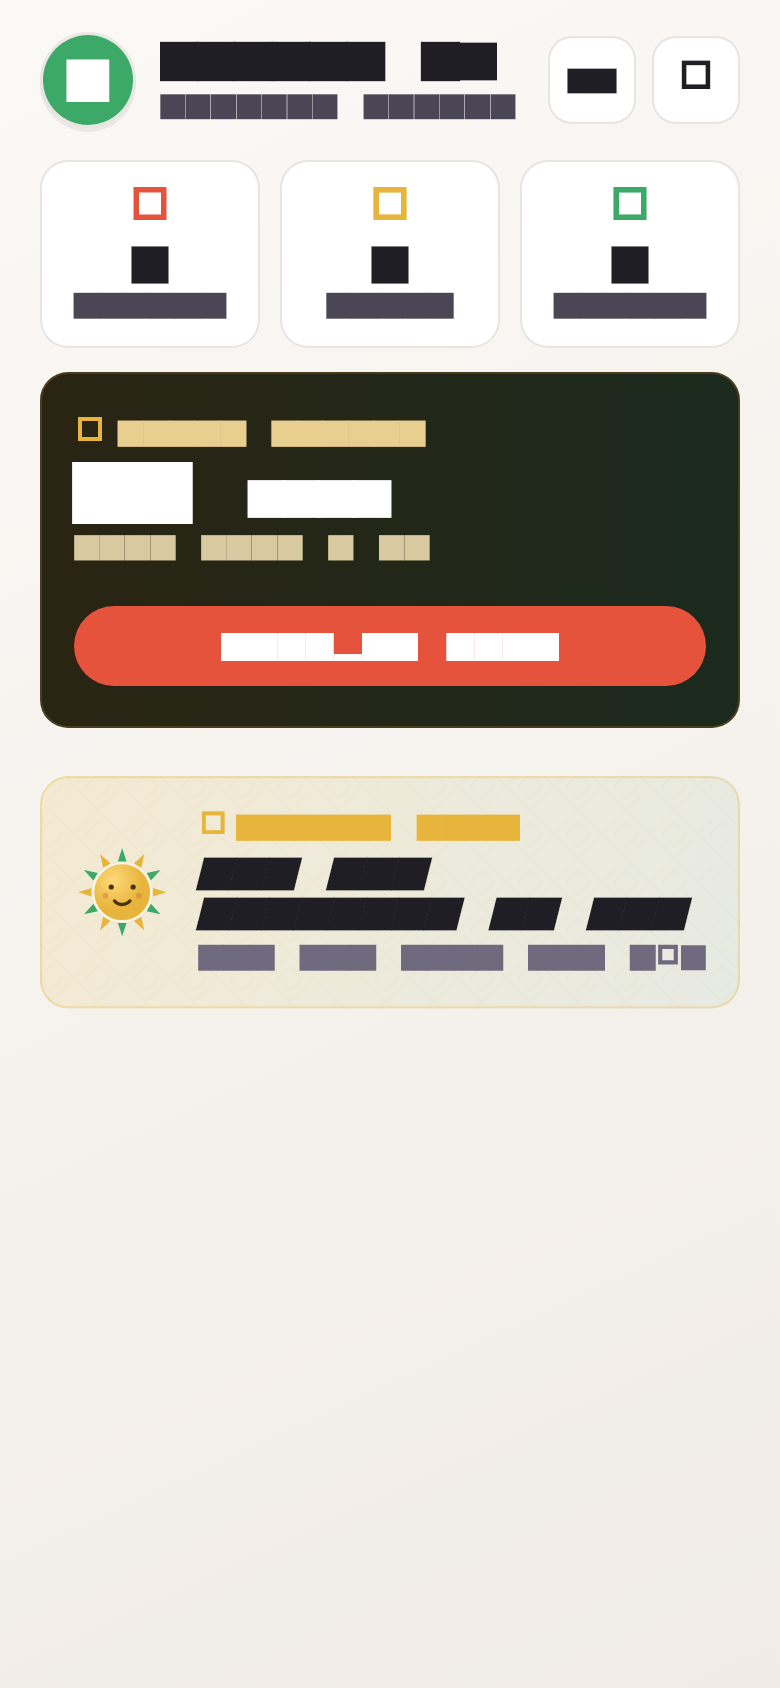
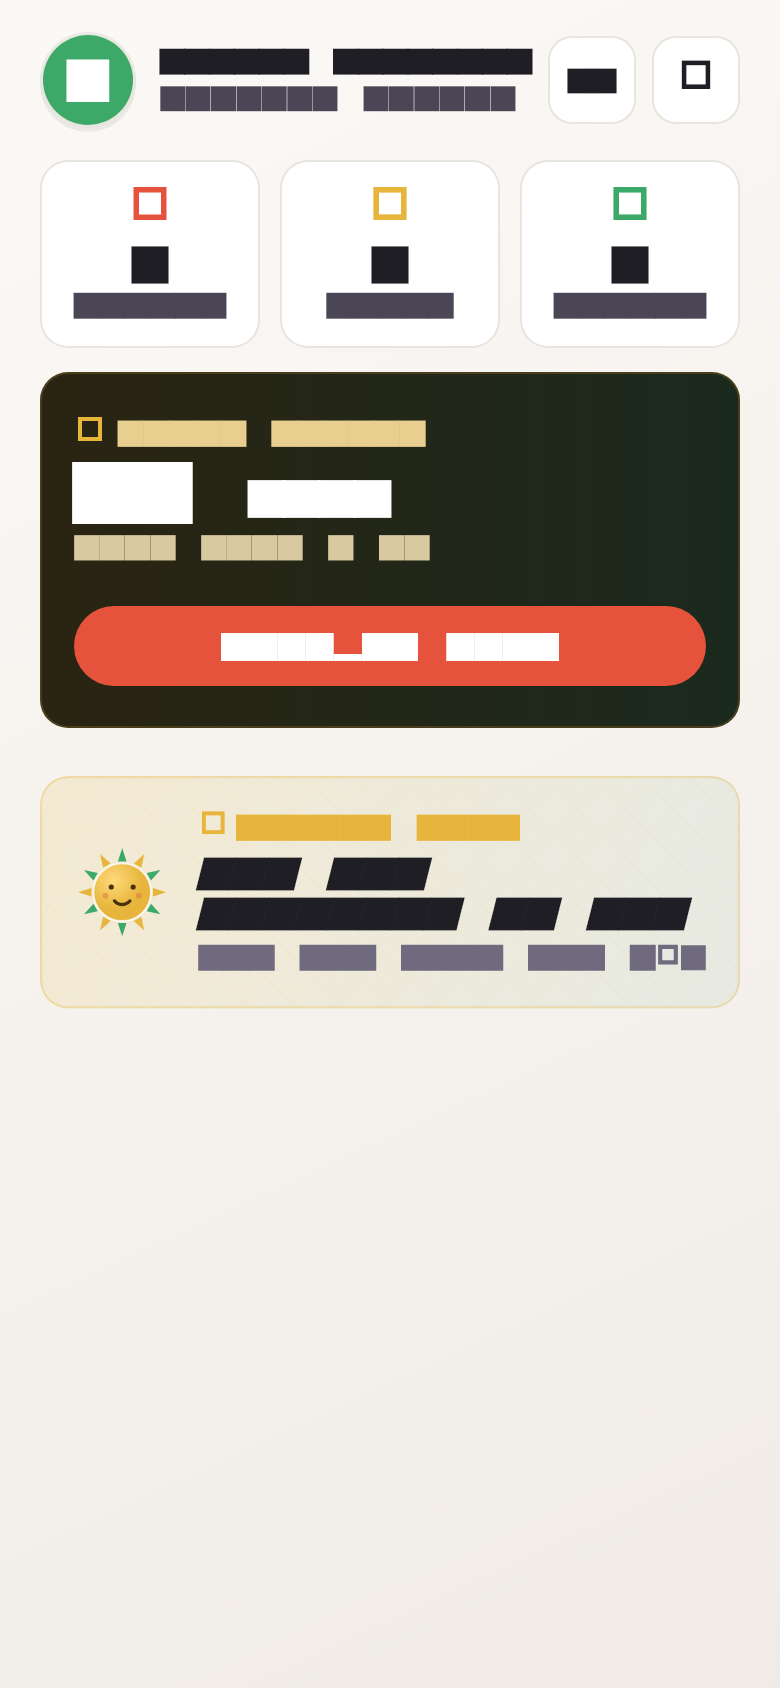
fix: ilk-kullanım denetimi 5 UX düzeltmesi
- Karşılama: adın ilk kelimesi + FittedBox (kırpılma bitti)
- Liderlik sekmeleri: kısa etiketler + dar labelPadding (Arkadaş sığıyor)
- Sonuç: mükerrer +coin/+XP kartları kaldırıldı (hero çipleri yeter),
  İncele flex 2, 'Değerlendir' kısa etiketi — aksiyonlar kırpılmıyor
- Joker çipleri: ad + fiyat (yalnız ikon+fiyat yeni kullanıcıya konuşmuyordu)

Denetim notu: önceki 'profil 390px'te kırık' bulgusu test artefaktıydı
(setSurfaceSize MediaQuery'yi güncellemiyor); view.physicalSize ile
doğrulandı, profil mobilde sağlam. 637 test yeşil.

Changed region(s): [[0.1846, 0.0, 0.6769, 0.0924]]

diff --git a/zankurd_mobile/lib/src/screens/quiz_result_screen.dart b/zankurd_mobile/lib/src/screens/quiz_result_screen.dart
@@ -759,276 +759,6 @@ class _QuizResultScreenState extends State<QuizResultScreen> {
                     ),
                   ],
                   const SizedBox(height: 16),
-                  if (coinsAwarded > 0) ...[
-                    TweenAnimationBuilder<double>(
-                      tween: Tween(begin: 0, end: 1),
-                      duration: const Duration(milliseconds: 450),
-                      curve: Curves.easeOutCubic,
-                      builder: (context, t, child) => Transform.scale(
-                        scale: 0.92 + 0.08 * t,
-                        child: Opacity(opacity: t, child: child),
-                      ),
-                      child: ClipRRect(
-                        borderRadius: BorderRadius.circular(16),
-                        child: Stack(
-                          children: [
-                            Container(
-                              padding: const EdgeInsets.only(
-                                left: 19,
-                                top: 16,
-                                right: 16,
-                                bottom: 16,
-                              ),
-                              decoration: BoxDecoration(
-                                color: AppTheme.surfaceHiColor(context),
-                                border: Border.all(
-                                  color: AppTheme.gold.withValues(alpha: 0.18),
-                                ),
-                                boxShadow: [
-                                  BoxShadow(
-                                    color: AppTheme.gold.withValues(
-                                      alpha: 0.05,
-                                    ),
-                                    blurRadius: 12,
-                                    offset: const Offset(0, 4),
-                                  ),
-                                ],
-                              ),
-                              child: Row(
-                                children: [
-                                  Container(
-                                    width: 46,
-                                    height: 46,
-                                    decoration: BoxDecoration(
-                                      color: AppTheme.surfaceColor(context),
-                                      borderRadius: BorderRadius.circular(12),
-                                      border: Border.all(
-                                        color: AppTheme.borderColor(context),
-                                        width: 1,
-                                      ),
-                                    ),
-                                    child: const Icon(
-                                      Icons.monetization_on_outlined,
-                                      color: AppTheme.gold,
-                                    ),
-                                  ),
-                                  const SizedBox(width: 12),
-                                  Expanded(
-                                    child: Column(
-                                      crossAxisAlignment:
-                                          CrossAxisAlignment.start,
-                                      children: [
-                                        TweenAnimationBuilder<int>(
-                                          tween: IntTween(
-                                            begin: 0,
-                                            end: coinsAwarded,
-                                          ),
-                                          duration: const Duration(
-                                            milliseconds: 800,
-                                          ),
-                                          curve: Curves.easeOut,
-                                          builder: (context, value, _) => Text(
-                                            context.s(
-                                              '+$value coin stendî',
-                                              '+$value coin kazandın',
-                                            ),
-                                            maxLines: 1,
-                                            overflow: TextOverflow.ellipsis,
-                                            style: TextStyle(
-                                              color: AppTheme.textPrimaryColor(
-                                                context,
-                                              ),
-                                              fontWeight: FontWeight.w700,
-                                              fontSize: 18,
-                                            ),
-                                          ),
-                                        ),
-                                        Text(
-                                          context.s(
-                                            'Xelata te di malperê de tê nûkirin.',
-                                            'Ödül bakiyen ana ekranda güncellenir.',
-                                          ),
-                                          maxLines: 2,
-                                          overflow: TextOverflow.ellipsis,
-                                          style: TextStyle(
-                                            color: AppTheme.textSubColor(
-                                              context,
-                                            ),
-                                          ),
-                                        ),
-                                      ],
-                                    ),
-                                  ),
-                                ],
-                              ),
-                            ),
-                            // Sol gold accent çizgisi
-                            Positioned(
-                              left: 0,
-                              top: 0,
-                              bottom: 0,
-                              child: Container(
-                                width: 3,
-                                decoration: const BoxDecoration(
-                                  color: AppTheme.gold,
-                                  borderRadius: BorderRadius.only(
-                                    topLeft: Radius.circular(16),
-                                    bottomLeft: Radius.circular(16),
-                                  ),
-                                ),
-                              ),
-                            ),
-                            // Mockup 8 hazine sandığı — üretilmiş kutlama aksanı.
-                            Positioned(
-                              right: 6,
-                              top: 0,
-                              bottom: 0,
-                              child: IgnorePointer(
-                                child: Opacity(
-                                  opacity: 0.6,
-                                  child: Image.asset(
-                                    'assets/illustrations/treasure_chest.png',
-                                    height: 60,
-                                    fit: BoxFit.contain,
-                                    filterQuality: FilterQuality.high,
-                                  ),
-                                ),
-                              ),
-                            ),
-                          ],
-                        ),
-                      ),
-                    ),
-                    const SizedBox(height: 16),
-                  ],
-                  if (_earnedXP > 0) ...[
-                    TweenAnimationBuilder<double>(
-                      tween: Tween(begin: 0, end: 1),
-                      duration: const Duration(milliseconds: 450),
-                      curve: Curves.easeOutCubic,
-                      builder: (context, t, child) => Transform.scale(
-                        scale: 0.92 + 0.08 * t,
-                        child: Opacity(opacity: t, child: child),
-                      ),
-                      child: ClipRRect(
-                        borderRadius: BorderRadius.circular(16),
-                        child: Stack(
-                          children: [
-                            Container(
-                              padding: const EdgeInsets.only(
-                                left: 19,
-                                top: 16,
-                                right: 16,
-                                bottom: 16,
-                              ),
-                              decoration: BoxDecoration(
-                                color: AppTheme.surfaceHiColor(context),
-                                border: Border.all(
-                                  color: AppTheme.accent.withValues(
-                                    alpha: 0.18,
-                                  ),
-                                ),
-                                boxShadow: [
-                                  BoxShadow(
-                                    color: AppTheme.accent.withValues(
-                                      alpha: 0.05,
-                                    ),
-                                    blurRadius: 12,
-                                    offset: const Offset(0, 4),
-                                  ),
-                                ],
-                              ),
-                              child: Row(
-                                children: [
-                                  Container(
-                                    width: 46,
-                                    height: 46,
-                                    decoration: BoxDecoration(
-                                      color: AppTheme.surfaceColor(context),
-                                      borderRadius: BorderRadius.circular(12),
-                                      border: Border.all(
-                                        color: AppTheme.borderColor(context),
-                                        width: 1,
-                                      ),
-                                    ),
-                                    child: Icon(
-                                      Icons.bolt_rounded,
-                                      color: AppTheme.accent,
-                                    ),
-                                  ),
-                                  const SizedBox(width: 12),
-                                  Expanded(
-                                    child: Column(
-                                      crossAxisAlignment:
-                                          CrossAxisAlignment.start,
-                                      children: [
-                                        TweenAnimationBuilder<int>(
-                                          tween: IntTween(
-                                            begin: 0,
-                                            end: _earnedXP,
-                                          ),
-                                          duration: const Duration(
-                                            milliseconds: 800,
-                                          ),
-                                          curve: Curves.easeOut,
-                                          builder: (context, value, _) => Text(
-                                            context.s(
-                                              '+$value XP bi dest xist',
-                                              '+$value XP kazandın',
-                                            ),
-                                            maxLines: 1,
-                                            overflow: TextOverflow.ellipsis,
-                                            style: TextStyle(
-                                              color: AppTheme.textPrimaryColor(
-                                                context,
-                                              ),
-                                              fontWeight: FontWeight.w700,
-                                              fontSize: 18,
-                                            ),
-                                          ),
-                                        ),
-                                        Text(
-                                          context.s(
-                                            'Asta te li ser profîlê tê nûkirin.',
-                                            'Seviyen profil sayfasında güncellenir.',
-                                          ),
-                                          maxLines: 2,
-                                          overflow: TextOverflow.ellipsis,
-                                          style: TextStyle(
-                                            color: AppTheme.textSubColor(
-                                              context,
-                                            ),
-                                            fontSize: 12,
-                                          ),
-                                        ),
-                                      ],
-                                    ),
-                                  ),
-                                ],
-                              ),
-                            ),
-                            // Sol accent (pink) çizgisi
-                            Positioned(
-                              left: 0,
-                              top: 0,
-                              bottom: 0,
-                              child: Container(
-                                width: 3,
-                                decoration: const BoxDecoration(
-                                  color: AppTheme.brandGreen,
-                                  borderRadius: BorderRadius.only(
-                                    topLeft: Radius.circular(16),
-                                    bottomLeft: Radius.circular(16),
-                                  ),
-                                ),
-                              ),
-                            ),
-                          ],
-                        ),
-                      ),
-                    ),
-                    const SizedBox(height: 16),
-                  ],
                   // ── Actions ──────────────────────────────────────────
                   const SizedBox(height: 12),
                   // Primary Actions Row: Play Again & Review
@@ -1072,6 +802,8 @@ class _QuizResultScreenState extends State<QuizResultScreen> {
                       ),
                       const SizedBox(width: 10),
                       Expanded(
+                        // 3:2 oranı: flex 1'de "İncele" kırpılıyordu ("İnc…").
+                        flex: 2,
                         child: SizedBox(
                           height: 52,
                           child: OutlinedButton.icon(
@@ -1168,7 +900,9 @@ class _QuizResultScreenState extends State<QuizResultScreen> {
                                 InAppReview.instance.openStoreListing(),
                             icon: const Icon(Icons.star_rounded, size: 18),
                             label: Text(
-                              context.s('Me binirxîne', 'Bizi değerlendir'),
+                              // Kısa etiket: "Bizi değerlendir" 2'li satırda
+                              // kırpılıyordu ("Bizi değerlen…").
+                              context.s('Binirxîne', 'Değerlendir'),
                               maxLines: 1,
                               overflow: TextOverflow.ellipsis,
                               style: const TextStyle(

diff --git a/zankurd_mobile/lib/src/screens/home_screen.dart b/zankurd_mobile/lib/src/screens/home_screen.dart
@@ -487,9 +487,12 @@ class _HomeScreenState extends State<HomeScreen> with TickerProviderStateMixin {
       }
     }
     final currentName = _displayName ?? widget.displayName;
+    // Selamda yalnız ilk kelime: uzun adlar tek satıra sığmayıp
+    // "Hoş geldin, ZanKur…" diye kırpılıyordu; tam ad Profil'de yaşar.
+    final shortName = currentName?.trim().split(RegExp(r'\s+')).first;
     final greeting = ku
-        ? '$greetingKu, ${currentName ?? 'Lîstikvan'}!'
-        : '$greetingTr, ${currentName ?? 'Oyuncu'}!';
+        ? '$greetingKu, ${shortName ?? 'Lîstikvan'}!'
+        : '$greetingTr, ${shortName ?? 'Oyuncu'}!';
 
     return Row(
       key: const ValueKey('home-profile-header'),
@@ -500,13 +503,18 @@ class _HomeScreenState extends State<HomeScreen> with TickerProviderStateMixin {
           child: Column(
             crossAxisAlignment: CrossAxisAlignment.start,
             children: [
-              Text(
-                greeting,
-                maxLines: 1,
-                overflow: TextOverflow.ellipsis,
-                style: AppTypography.heading2.copyWith(
-                  color: AppTheme.textPrimaryColor(context),
-                  fontSize: 19,
+              // Elips yerine sığdır: uzun selam+ad kombinasyonları
+              // ("İyi Akşamlar, ZanKurd!") kırpılmak yerine hafif küçülür.
+              FittedBox(
+                fit: BoxFit.scaleDown,
+                alignment: AlignmentDirectional.centerStart,
+                child: Text(
+                  greeting,
+                  maxLines: 1,
+                  style: AppTypography.heading2.copyWith(
+                    color: AppTheme.textPrimaryColor(context),
+                    fontSize: 19,
+                  ),
                 ),
               ),
               const SizedBox(height: 2),

diff --git a/zankurd_mobile/lib/src/screens/quiz/quiz_widgets.dart b/zankurd_mobile/lib/src/screens/quiz/quiz_widgets.dart
@@ -1191,6 +1191,17 @@ class _WildcardButtonState extends State<_WildcardButton> {
                       ),
                     ),
                     const SizedBox(height: 1),
+                    // Ad + fiyat: yalnız ikon+fiyat yeni kullanıcıya jokerin
+                    // ne yaptığını söylemiyordu (tooltip uzun basışta kalır).
+                    Text(
+                      widget.type.label(widget.isKu),
+                      style: AppTypography.caption.copyWith(
+                        fontWeight: FontWeight.w700,
+                        fontSize: 9,
+                        height: 1.0,
+                        color: iconColor,
+                      ),
+                    ),
                     Text(
                       '${widget.type.coinCost}c',
                       style: AppTypography.caption.copyWith(

diff --git a/zankurd_mobile/lib/src/screens/leaderboard_screen.dart b/zankurd_mobile/lib/src/screens/leaderboard_screen.dart
@@ -444,9 +444,11 @@ class _PeriodTabs extends StatelessWidget {
 
   @override
   Widget build(BuildContext context) {
+    // Kısa etiketler: 4 eşit sekme 390px'te uzun TR etiketleri kırpıyordu
+    // ("Haftalı…", "Arkada…").
     final labels = ku
         ? ['Roj', 'Heft', 'Meh', 'Heval']
-        : ['Günlük', 'Haftalık', 'Aylık', 'Arkadaşlar'];
+        : ['Gün', 'Hafta', 'Ay', 'Arkadaş'];
 
     return Container(
       margin: const EdgeInsets.fromLTRB(
@@ -483,6 +485,8 @@ class _PeriodTabs extends StatelessWidget {
           ),
         ),
         indicatorSize: TabBarIndicatorSize.tab,
+        // Varsayılan 16px label padding 4 sekmede "Arkadaş"ı kırpıyordu.
+        labelPadding: const EdgeInsets.symmetric(horizontal: 4),
         dividerColor: Colors.transparent,
         tabs: [for (final label in labels) Tab(text: label)],
       ),

diff --git a/zankurd_mobile/test/auth_onboarding_test.dart b/zankurd_mobile/test/auth_onboarding_test.dart
@@ -419,7 +419,8 @@ void main() {
     );
     await tester.pumpAndSettle();
 
-    expect(find.text('Hoş geldin, ZanKurd Oyuncusu!'), findsOneWidget);
+    // Selamda yalnız adın ilk kelimesi kullanılır (uzun ad kırpılmasın).
+    expect(find.text('Hoş geldin, ZanKurd!'), findsOneWidget);
     expect(find.text('Seviye 5'), findsNothing);
     expect(find.byIcon(Icons.diamond), findsNothing);
 